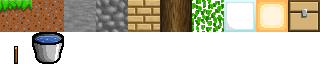
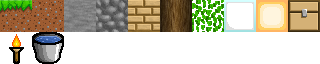
new torch texture

Changed region(s): [[0.0312, 0.5625, 0.0938, 1.0]]

diff --git a/src/block_models.c b/src/block_models.c
@@ -79,10 +79,10 @@ void block_models_init() {
 
 	float unit = 1.0f / (float)TILE_SIZE;
 
-	Vector2 p0 = { unit * 14, unit * 14 };
-	Vector2 p1 = { unit * 14, unit * 32 };
-	Vector2 p2 = { unit * 18, unit * 32 };
-	Vector2 p3 = { unit * 18, unit * 14 };
+	Vector2 p0 = { unit * 9, unit * 2 };
+	Vector2 p1 = { unit * 9, unit * 32 };
+	Vector2 p2 = { unit * 24, unit * 32 };
+	Vector2 p3 = { unit * 24, unit * 2 };
 
 	models[BLOCK_MODEL_TORCH].vertices[0] = (Vertex2D){ p0.x * TILE_SIZE, p0.y * TILE_SIZE, p0.x, p0.y };
 	models[BLOCK_MODEL_TORCH].vertices[1] = (Vertex2D){ p1.x * TILE_SIZE, p1.y * TILE_SIZE, p1.x, p1.y };
@@ -100,10 +100,12 @@ void block_models_init() {
 		.vertices = malloc(sizeof(Vertex2D) * 6)
 	};
 
-	Vector2 new_p0 = (Vector2){ unit * 28, unit * -1.25f };
-	Vector2 new_p1 = (Vector2){ unit * 28, unit * 15.25f };
-	Vector2 new_p2 = (Vector2){ unit * 32, unit * 15.25f };
-	Vector2 new_p3 = (Vector2){ unit * 32, unit * -1.25f };
+	Vector2 translation = (Vector2){ unit * 12, -(unit * 10) };
+
+	Vector2 new_p0 = Vector2Add(p0, translation);
+	Vector2 new_p1 = Vector2Add(p1, translation);;
+	Vector2 new_p2 = Vector2Add(p2, translation);;
+	Vector2 new_p3 = Vector2Add(p3, translation);;
 
 	Vector2 rp0 = Vector2Add(Vector2Rotate(Vector2Subtract(new_p0, new_p2), -PI / 8.0f), new_p2);
 	Vector2 rp1 = Vector2Add(Vector2Rotate(Vector2Subtract(new_p1, new_p2), -PI / 8.0f), new_p2);
